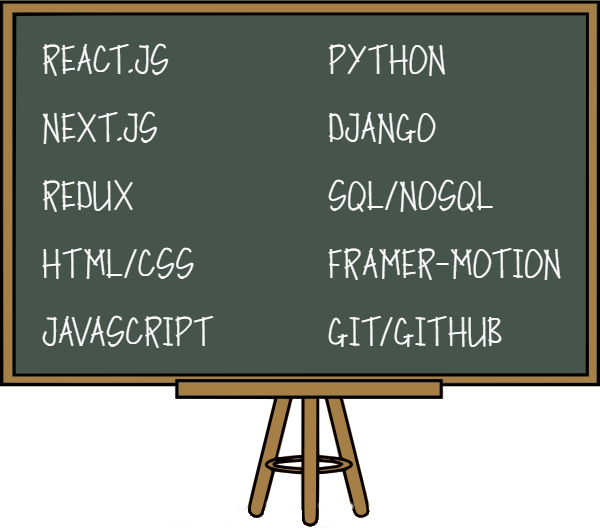
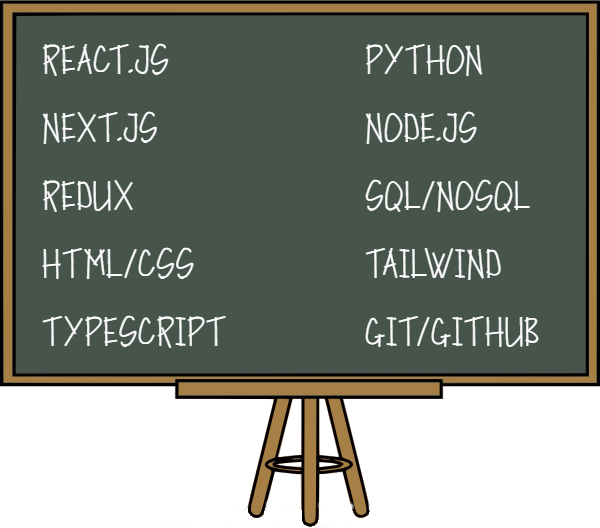
updated skills section

diff --git a/components/Skills.js b/components/Skills.js
@@ -33,8 +33,8 @@ const variant =  {
 
             <motion.img variants={variant}  animate='animate' custom={1} src='/react.png' width='75rem' ></motion.img>
             <motion.img variants={variant} animate='animate' custom={2} src='/redux.png' width='75rem' ></motion.img>
-            <motion.img className='bg-[white] p-2 rounded' variants={variant} animate="animate" custom={3} src='/next.png' width='75rem' ></motion.img>
-            <motion.img  variants={variant} animate="animate" custom={4} src='/js.png' height='75rem' width='75rem' ></motion.img>
+            <motion.img  variants={variant} animate="animate" custom={3} src='/ts.png' width='65rem' ></motion.img>
+            <motion.img  variants={variant} animate="animate" custom={4} src='/tw.png' height='75rem' width='75rem' ></motion.img>
             <motion.img  variants={variant} animate="animate" custom={5} src='/python.png' width='150rem' ></motion.img>
 
             </div>
